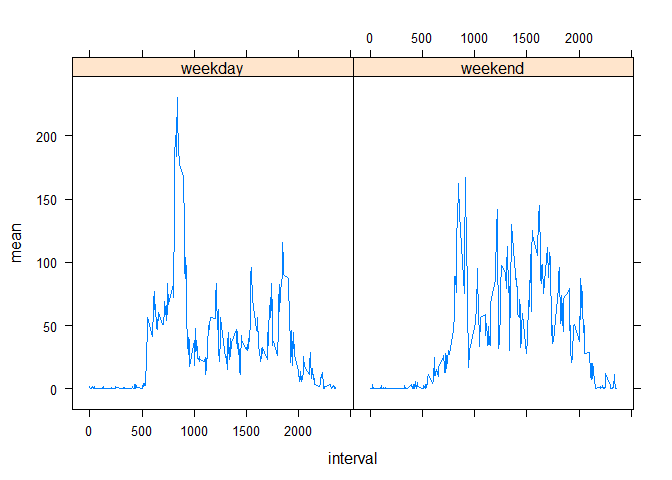
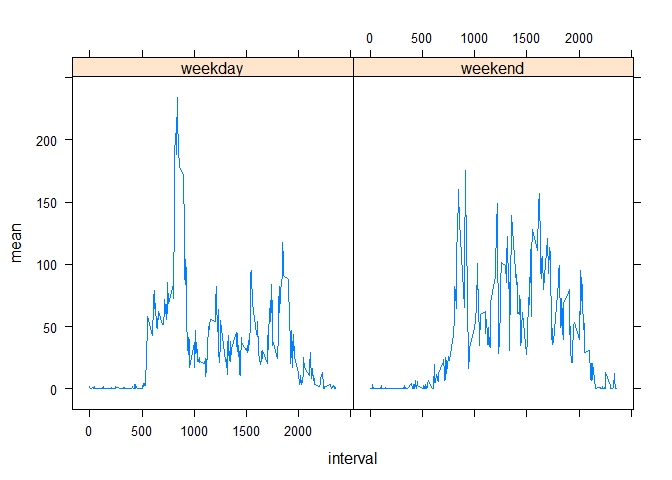
commit5

diff --git a/PA1_template.html b/PA1_template.html
@@ -204,16 +204,14 @@ hr {
 <h5>Loading (installing if needed) some packages</h5>
 
 <pre><code class="r">if(!(&#39;plyr&#39; %in% installed.packages()[,&#39;Package&#39;])){install.packages(&#39;plyr&#39;)}
-if(!(&#39;xtable&#39; %in% installed.packages()[,&#39;Package&#39;])){install.packages(&#39;xtable&#39;)}
 if(!(&#39;ggplot2&#39; %in% installed.packages()[,&#39;Package&#39;])){install.packages(&#39;ggplot2&#39;)}
 if(!(&#39;sqldf&#39; %in% installed.packages()[,&#39;Package&#39;])){install.packages(&#39;sqldf&#39;)}
 if(!(&#39;lattice&#39; %in% installed.packages()[,&#39;Package&#39;])){install.packages(&#39;lattice&#39;)}
 
 library(plyr)
-library(xtable);
 library(ggplot2);
-library(sqldf)
-library(lattice)
+library(lattice);
+library(sqldf);
 </code></pre>
 
 <h2>Loading and preprocessing the data</h2>
@@ -227,9 +225,7 @@ activity$datetime=as.POSIXct(activity$date)+activity$interval*60
 
 <h4>1. Calculate the total number of steps taken per day</h4>
 
-<pre><code class="r">sumSteps=ddply(activity,~date,summarise,sum=sum(steps,na.rm=T));
-#xt=xtable(sumSteps);
-#print(xt,type=&#39;html&#39;)
+<pre><code class="r">sumSteps=ddply(activity,~date,summarise,sum=sum(steps));
 </code></pre>
 
 <h4>2.Make a histogram of the total number of steps taken each day</h4>
@@ -237,27 +233,26 @@ activity$datetime=as.POSIXct(activity$date)+activity$interval*60
 <pre><code class="r">hist(sumSteps$sum)
 </code></pre>
 
[2 lines of base64/hex data omitted]
 
 <h4>3.Calculate and report the mean and median of the total number of steps taken per day</h4>
 
-<pre><code class="r"> meanStepsPerDay=mean(sumSteps$sum,na.rm=T);
-  meanStepsPerDay_char=as.character(round(meanStepsPerDay,1))
- medianStepsPerDay=median(sumSteps$sum,na.rm=T);
+<pre><code class="r">meanStepsPerDay=mean(sumSteps$sum,na.rm=T);
+meanStepsPerDay_char=as.character(round(meanStepsPerDay,1))
+medianStepsPerDay=median(sumSteps$sum,na.rm=T);
 </code></pre>
 
-<p>the mean number of steps per day is 9354.2, and the median is 10395 </p>
+<p>the mean number of steps per day is 10766.2, and the median is 10765 </p>
 
 <h2>What is the average daily activity pattern?</h2>
 
 <h4>1. Make a time series plot (i.e. type = &ldquo;l&rdquo;) of the 5-minute interval (x-axis) and the average number of steps taken, averaged across all days (y-axis)</h4>
 
 <pre><code class="r">intervals=ddply(activity,~interval,summarise,mean=mean(steps,na.rm=T));
-#intervals$time= format.POSIXct(as.POSIXct(&#39;2000-01-01&#39;)+intervals$interval*60, &quot;%H:%M&quot;)
 xyplot(mean~interval,data=intervals,type=&#39;l&#39;)
 </code></pre>
 
[2 lines of base64/hex data omitted]
 
 <h4>2.Which 5-minute interval, on average across all the days in the dataset, contains the maximum number of steps?</h4>
 
@@ -265,7 +260,7 @@ xyplot(mean~interval,data=intervals,type=&#39;l&#39;)
 maxInterval$time=format.POSIXct(as.POSIXct(&#39;2000-01-01&#39;)+maxInterval$interval*60, &quot;%H:%M&quot;)
 </code></pre>
 
-<p>The 5-minute interval which contains the maximun number of steps on average is the: 835,th interval that is the following time:  13:55. The average number of steps is: 206.17</p>
+<p>The 5-minute interval which contains the maximun number of steps on average is the: 835th interval that is the following time:  13:55. The average number of steps is: 206.17</p>
 
 <h2>Imputing missing values</h2>
 
@@ -281,12 +276,12 @@ maxInterval$time=format.POSIXct(as.POSIXct(&#39;2000-01-01&#39;)+maxInterval$int
 <p>I will use the the mean for that 5-minute interval.</p>
 
 <pre><code class="r">activity=sqldf(&quot;select a.*,b.mean as intervalMean from activity a left join intervals b on a.interval=b.interval&quot;)
-activity$steps=ifelse(is.na(activity$steps),activity$intervalMean,activity$steps)
+activity$steps_without_NAs=ifelse(is.na(activity$steps),activity$intervalMean,activity$steps)
 </code></pre>
 
 <h4>3.Create a new dataset that is equal to the original dataset but with the missing data filled in.</h4>
 
-<pre><code class="r">new_activity=activity[,c(&#39;steps&#39;,&#39;date&#39;,&#39;interval&#39;)]
+<pre><code class="r">new_activity=data.frame(steps=activity$steps_without_NAs,date=activity$date,interval=activity$interval)
 </code></pre>
 
 <h4>4.Make a histogram of the total number of steps taken each day and Calculate and report the mean and median total number of steps taken per day. Do these values differ from the estimates from the first part of the assignment? What is the impact of imputing missing data on the estimates of the total daily number of steps?</h4>
@@ -295,18 +290,21 @@ activity$steps=ifelse(is.na(activity$steps),activity$intervalMean,activity$steps
 hist(new_sumSteps$sum)
 </code></pre>
 
[2 lines of base64/hex data omitted]
 
 <pre><code class="r">compare=sqldf(&quot;select a.date,a.sum as sum,b.sum as new_sum from sumSteps a join new_sumSteps b on a.date=b.date&quot;)
-compare$difference=compare$new_sum-compare$sum;
-compare$difference_pct=100*compare$difference/compare$sum;
+
+total_daily_number_of_steps=c(original=mean(compare$sum,na.rm=T),new=mean(compare$new_sum))
 </code></pre>
+
+<p>The original total daily number of steps is 10766.19 and the total daily number of steps with the missing data filled in is 10766.19. So there is no difference between the two calculations. (This is a general property)</p>
 
 <h2>Are there differences in activity patterns between weekdays and weekends?</h2>
 
 <h4>1.Create a new factor variable in the dataset with two levels - &ldquo;weekday&rdquo; and &ldquo;weekend&rdquo; indicating whether a given date is a weekday or weekend day.</h4>
 
-<pre><code class="r">activity$weekday=as.factor(ifelse(weekdays(as.Date(activity$date)) %in% c(&#39;sábado&#39;,&#39;domingo&#39;,&#39;saturday&#39;,&#39;sunday&#39;),&#39;weekend&#39;,&#39;weekday&#39;)); #My computer LOCALE is Spanish (I use also English just in case)
+<pre><code class="r">activity$weekday=as.factor(ifelse(weekdays(as.Date(activity$date)) %in% c(&#39;sábado&#39;,&#39;domingo&#39;,&#39;saturday&#39;,&#39;sunday&#39;),&#39;weekend&#39;,&#39;weekday&#39;));
+#My computer LOCALE is Spanish (I use also English just in case yours is in English)
 </code></pre>
 
 <h4>2.Make a panel plot containing a time series plot (i.e. type = &ldquo;l&rdquo;) of the 5-minute interval (x-axis) and the average number of steps taken, averaged across all weekday days or weekend days (y-axis). See the README file in the GitHub repository to see an example of what this plot should look like using simulated data.</h4>
@@ -323,7 +321,7 @@ intervals_all=intervals_all[order(intervals_all$interval),]
 xyplot(mean~interval|weekday,data=intervals_all,type=&#39;l&#39;)
 </code></pre>
 
[2 lines of base64/hex data omitted]
 
 </body>
 
